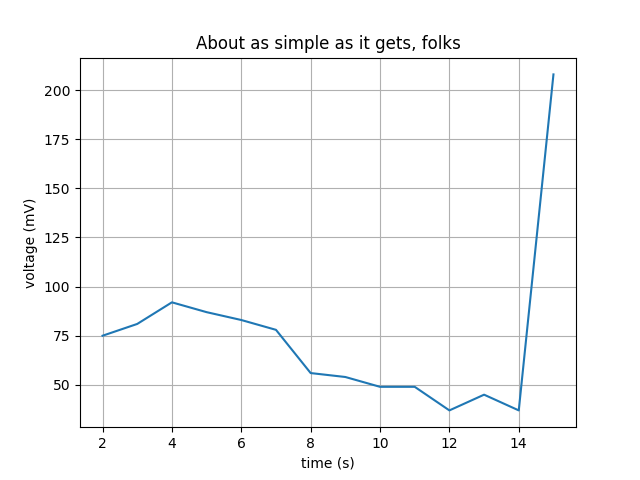
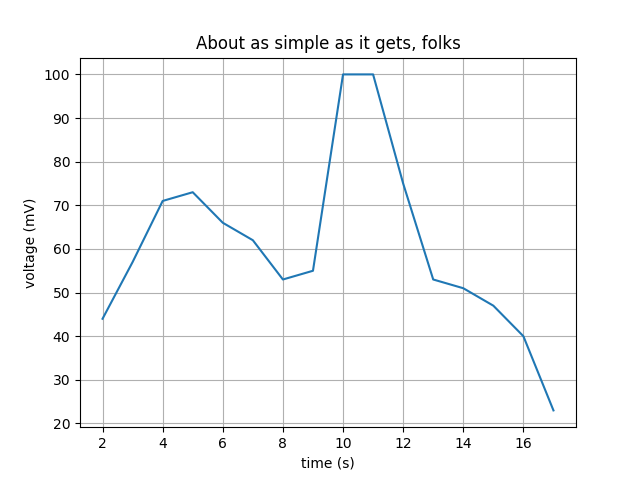
ver3

diff --git a/src/SentenceMatchDataStream.py b/src/SentenceMatchDataStream.py
@@ -84,14 +84,15 @@ def pad_3d_tensor(in_val, max_length1=None, max_length2=None, dtype=np.int32):
 
 def solve_box (n, p, b, dp, next_dp):
     if n == 0:
-        return 0
+        return (0,0)
     elif n+p <= b:
         next_dp[(n, p)] = n
-        return n + p
+        return (n + p, b - (n+p))
     elif (n,p) in dp:
         return dp [(n,p)]
     else:
         Min = 1000000000
+        Min_empty = 1000000
         for i in range (1, n+1):
             for j in range (1, p+1):
                 if (i + j) <= b: #fixed i and maximum j
@@ -107,22 +108,27 @@ def solve_box (n, p, b, dp, next_dp):
                             pos_per_box_add -= 1
                             pos_this_box +=1
                         ans+=pos_this_box + i
-                    ans += solve_box(n-i, p, b, dp, next_dp)
-                    if ans <= Min: #less or equal for having more negs
+                        empty = b - (i + pos_this_box) #the last iteration has maximum epty of all boxes of this (i,j)
+                    s_b = solve_box(n-i, p, b, dp, next_dp)
+                    ans += s_b [0]
+                    if (s_b[1] > empty): # empty = min(empty, s_b[1])
+                        empty = s_b[1]
+                    if ans < Min or (ans == Min and empty <= Min_empty): #less or equal for having more negs
                         Min = ans
+                        Min_empty = empty
                         next_dp[(n,p)] = i
-        dp [(n,p)] = Min
-        return Min
+        dp [(n,p)] = (Min, Min_empty)
+        return (Min, Min_empty)
 
-def produce_box (next_dp, item, max_answer_size, box_id, box_dic, dp):
+def produce_box (next_dp, item, max_answer_size, box_id, box_dic, dp, sample_neg_from_question):
     good_answer = [item["answer"][i] for i in range(len(item["question"])) if item["label"][i] == 1]
     bad_answer = [item["answer"][i] for i in range(len(item["question"])) if item["label"][i] == 0]
     random.shuffle(bad_answer)  # random works inplace and returns None
     random.shuffle(good_answer)  # random works inplace and returns None
     n = len(bad_answer)
     p = len (good_answer)
-    s_b = solve_box(n,p,max_answer_size, dp, next_dp)
-    if s_b > n*p*2:
+    s_b = solve_box(n,p,max_answer_size, dp, next_dp)[0]
+    if n + p > 15:
         ol = 3
     passed_n = 0
     while ((n-passed_n, p) in next_dp): #n - passed_n = 0
@@ -135,6 +141,8 @@ def produce_box (next_dp, item, max_answer_size, box_id, box_dic, dp):
         pos_per_box = int(p // box_needed)
         extra_poss = p % box_needed
         poss_idx = 0
+        # sample_neg_from_question
+
         for i in range(box_needed):
             box_dic.setdefault(box_id, {})
             box_dic[box_id].setdefault("question", [])
@@ -154,13 +162,24 @@ def produce_box (next_dp, item, max_answer_size, box_id, box_dic, dp):
                 box_dic[box_id]["answer"].append(good_answer[poss_idx])
                 box_dic[box_id]["label"].append(1)
                 poss_idx += 1
+            # if sample_neg_from_question == True and pos_for_this_box + n_cnt < min_answer_size:
+            #     neg_sam = []
+            #     bad_answer_idx = 0
+            #     bad_answer_tmp = bad_answer.copy()
+            #     random.shuffle(bad_answer_tmp)
+            #     for u in range(min_answer_size - len(item["question"])):
+            #         if bad_answer_idx == len(bad_answer_tmp):
+            #             bad_answer_idx = 0
+            #         neg_sam.append(bad_answer_tmp[bad_answer_idx])
+            #         bad_answer_idx += 1
+            #     temp_answer.extend(neg_sam)
+
+
             box_id += 1
         passed_n += n_cnt
-    if (n-passed_n != 0):
-        print ("fuck", n - passed_n)
     return box_dic, box_id, s_b
 
-def MakeBox (question_dic, max_answer_size, use_top_negs):
+def MakeBox (question_dic, max_answer_size, use_top_negs, sample_neg_from_question):
     print ("Question count before boxing", len(question_dic))
     dp = {}
     next_dp = {}
@@ -169,7 +188,8 @@ def MakeBox (question_dic, max_answer_size, use_top_negs):
     tot_pairs_solve = 0
     for item in question_dic.values():
         box_dic, box_id, s_b = \
-            produce_box(next_dp=next_dp, item=item, max_answer_size=max_answer_size, box_id=box_id, box_dic=box_dic, dp=dp)
+            produce_box(next_dp=next_dp, item=item, max_answer_size=max_answer_size, box_id=box_id, box_dic=box_dic, dp=dp,
+                        sample_neg_from_question=sample_neg_from_question)
         tot_pairs_solve += s_b
     question_dic = box_dic
     print ("box count:", len(box_dic), "pairs_count", tot_pairs_solve)
@@ -248,7 +268,7 @@ def wikiQaGenerate(filename, label_vocab, word_vocab, char_vocab, max_sent_lengt
 
     print ("pairs count", all_count - del_all_count)
     if use_box == True:
-        question_dic = MakeBox(question_dic, max_answer_size, use_top_negs)
+        question_dic = MakeBox(question_dic, max_answer_size, use_top_negs, sa)
                             #biger_than_max += len (item["answer"]) - maxanswer_size
     question = list()
     answer = list()
@@ -330,21 +350,21 @@ def wikiQaGenerate(filename, label_vocab, word_vocab, char_vocab, max_sent_lengt
         batches = make_batches_as(instances, batch_size, max_answer_size, is_training, equal_box_per_batch)
     else:
         batches = make_batches(pairs_count,batch_size)
-    # show_plot = True
-    # if show_plot == True:
-    #     sum_len = np.zeros((max_answer_size-1))
-    #     for x in instances:
-    #         sum_len [len (x[1])-2] += 1
-    #     x = np.arange(2, max_answer_size+1)
-    #     fig, ax = plt.subplots()
-    #     ax.plot(x, sum_len)
-    #
-    #     ax.set(xlabel='time (s)', ylabel='voltage (mV)',
-    #            title='About as simple as it gets, folks')
-    #     ax.grid()
-    #
-    #     fig.savefig("test.png")
-    #     plt.show()
+    show_plot = True
+    if show_plot == True:
+        sum_len = np.zeros((max_answer_size-1))
+        for x in instances:
+            sum_len [len (x[1])-2] += 1
+        x = np.arange(2, max_answer_size+1)
+        fig, ax = plt.subplots()
+        ax.plot(x, sum_len)
+
+        ax.set(xlabel='time (s)', ylabel='voltage (mV)',
+               title='About as simple as it gets, folks')
+        ax.grid()
+
+        fig.savefig("test.png")
+        plt.show()
 
     ans = []
     candidate_answer_length = []

diff --git a/src/SentenceMatchTrainer.py b/src/SentenceMatchTrainer.py
@@ -961,7 +961,7 @@ if __name__ == '__main__':
     #parser.add_argument('--word_vec_path', type=str, default='../data/glove/glove.840B.300d.txt', help='Path the to pre-trained word vector model.')
     parser.add_argument('--is_server',default=False, type= bool, help='do we have cuda visible devices?')
     parser.add_argument('--is_random_init',default=True, help='loop: ranom initalizaion of parameters -> run ?')
-    parser.add_argument('--max_epochs', type=int, default=5, help='Maximum epochs for training.')
+    parser.add_argument('--max_epochs', type=int, default=7, help='Maximum epochs for training.')
     parser.add_argument('--attention_type', default='dot_product', help='[bilinear, linear, linear_p_bias, dot_product]')
 
 
@@ -989,9 +989,9 @@ if __name__ == '__main__':
     #if is_trec == False:
     #    bs = 40
     parser.add_argument('--min_answer_size', type=int, default= 0, help='Number of instances in each batch.')
-    parser.add_argument('--max_answer_size', type=int, default= 8, help='Number of instances in each batch.')
+    parser.add_argument('--max_answer_size', type=int, default= 30, help='Number of instances in each batch.')
 
-    question_per_batch = 7
+    question_per_batch = 1
 
     FLAGS, unparsed = parser.parse_known_args()
 
